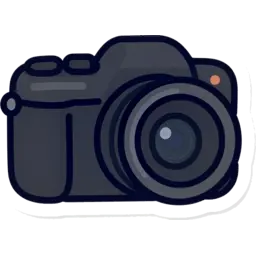
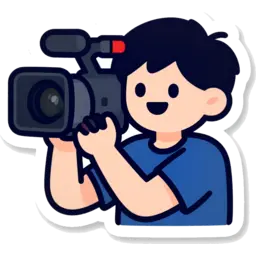
Caméra : un caméraman qui filme, plutôt qu'un appareil photo

diff --git a/outils/images.py b/outils/images.py
@@ -35,7 +35,7 @@ STYLE = (
 DESSINS = {
     "cadeau": "a wrapped gift box with a red ribbon bow",
     "café": "a white cup of hot coffee on a saucer, with steam",
-    "caméra": "a black video camera with a big round lens",
+    "caméra": "a smiling cameraman filming with a big professional video camera on his shoulder, red recording light on",
     "carotte": "an orange carrot with green leaves",
     "carte": "an unfolded treasure map with a dotted path and a red cross",
     "ceinture": "a brown leather belt with a golden buckle, buckled in a loop",
@@ -56,7 +56,8 @@ DESSINS = {
 }
 
 # Une graine par mot, à changer pour obtenir d'autres essais.
-GRAINES = {"cyprès": 2}  # à la graine 1, « flame shaped » le mettait en feu
+# graine 1 : caméra donnait un appareil photo, cyprès un arbre en feu (« flame shaped »)
+GRAINES = {"caméra": 3, "cyprès": 2}
 
 
 def webp(mot: str) -> Path:
